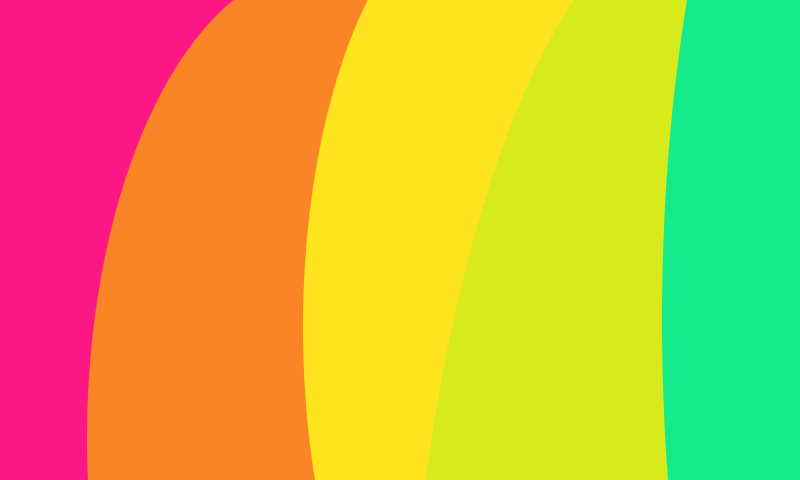
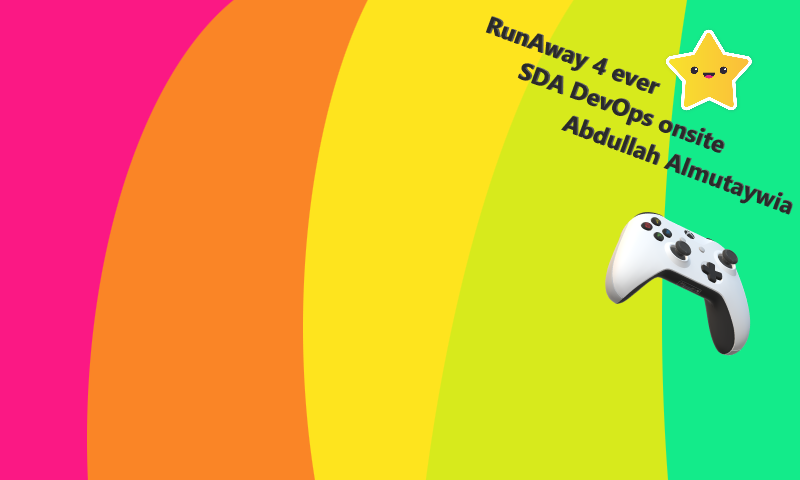
sda version

Changed region(s): [[0.5938, 0.0312, 1.0, 0.4688], [0.75, 0.4375, 0.9375, 0.75]]

diff --git a/kandi.js b/kandi.js
@@ -1,4 +1,7 @@
 (function ($) {
+
+  
+
 // define variables
 var canvas = document.getElementById('canvas');
 var ctx = canvas.getContext('2d');
@@ -256,6 +259,7 @@ function Animation(spritesheet, frameSpeed, startFrame, endFrame) {
   };
 }
 
+
 /**
  * Create a parallax background
  */
@@ -382,7 +386,7 @@ var player = (function(player) {
 
   // jumping
   player.gravity   = 1;
-  player.dy        = 0;
+  player.dy        = 1;
   player.jumpDy    = -10;
   player.isFalling = false;
   player.isJumping = false;
@@ -417,10 +421,15 @@ var player = (function(player) {
     }
 
     jumpCounter = Math.max(jumpCounter-1, 0);
-
+    if (score == 100){
+      score ="Infinity score  !! ^_^  - ";
+      score = 100000000000
+      gameOver();
+      
+    }
     this.advance();
 
-    // add gravity
+     //add gravity
     if (player.isFalling || player.isJumping) {
       player.dy += player.gravity;
     }
@@ -525,7 +534,7 @@ function getType() {
  */
 function updateGround() {
   // animate ground
-  player.isFalling = true;
+  player.isFalling = false;
   for (var i = 0; i < ground.length; i++) {
     ground[i].update();
     ground[i].draw();
@@ -585,7 +594,7 @@ function updateEnvironment() {
 /**
  * Update all enemies position and draw. Also check for collision against the player.
  */
-function updateEnemies() {
+/*function updateEnemies() {
   // animate enemies
   for (var i = 0; i < enemies.length; i++) {
     enemies[i].update();
@@ -593,7 +602,7 @@ function updateEnemies() {
 
     // player ran into enemy
     if (player.minDist(enemies[i]) <= player.width - platformWidth/2) {
-      gameOver();
+     // gameOver();
     }
   }
 
@@ -642,7 +651,7 @@ function spawnSprites() {
     spawnEnvironmentSprites();
 
     // add random enemies
-    spawnEnemySprites();
+    //spawnEnemySprites();
   }
   // start over
   else {
@@ -711,12 +720,12 @@ function animate() {
     updateEnvironment();
     updatePlayer();
     updateGround();
-    updateEnemies();
+    //updateEnemies();
 
     // draw the score
-    ctx.fillText('Score: ' + score + 'm', canvas.width - 160, 30);
-    ctx.fillText('Name: ' + 'Chandra Arya', canvas.width - 160, 45);
-    ctx.fillText('Class: ' + 'DevOps online', canvas.width - 160, 60);
+    ctx.fillText('Score: ' + score , canvas.width - 160, 30);
+    ctx.fillText('Name: ' + 'Abdullah Almutaywia', canvas.width - 160, 45);
+    ctx.fillText('Class: ' + 'DevOps onsite', canvas.width - 160, 60);
 
     // spawn a new Sprite
     if (ticker % Math.floor(platformWidth / player.speed) === 0) {
@@ -845,7 +854,7 @@ function startGame() {
  * End the game and restart
  */
 function gameOver() {
-  stop = true;
+  stop = false;
   $('#score').html(score);
   $('#game-over').show();
   assetLoader.sounds.bg.pause();
@@ -853,7 +862,7 @@ function gameOver() {
   assetLoader.sounds.gameOver.play();
 }
 
-/**
+/** 
  * Click handlers for the different menu screens
  */
 $('.credits').click(function() {
@@ -901,3 +910,4 @@ $('.restart').click(function() {
 
 assetLoader.downloadAll();
 })(jQuery);
+

diff --git a/index.html b/index.html
@@ -2,7 +2,7 @@
 <html>
 <head>
   <meta charset="UTF-8">
-  <title>Kandi Runner</title>
+  <title>SDA Runner</title>
   <link rel="stylesheet" href="kandi.css" type="text/css" media="screen">
   <script type="text/javascript" src="jquery.2.1.1.min.js"></script>
 </head>
@@ -15,7 +15,7 @@
         <progress id="progress-bar" value="0"></progress>
       </div>
       <div id="main">
-        <h1>Kandi Runner</h1>
+        <h1>SDA Runner</h1>
         <ul>
           <li><a href="javascript:void(0)" class="button play">Start Game</a></li>
           <li><a href="javascript:void(0)" class="button credits">Credits</a></li>

diff --git a/kandi.css b/kandi.css
@@ -47,7 +47,7 @@ a {
 
 #menu {
   position: absolute;
-  width: 600px;
+  width: 800px;
   height: 360px;
   border: 1px solid black;
   z-index: 2;
